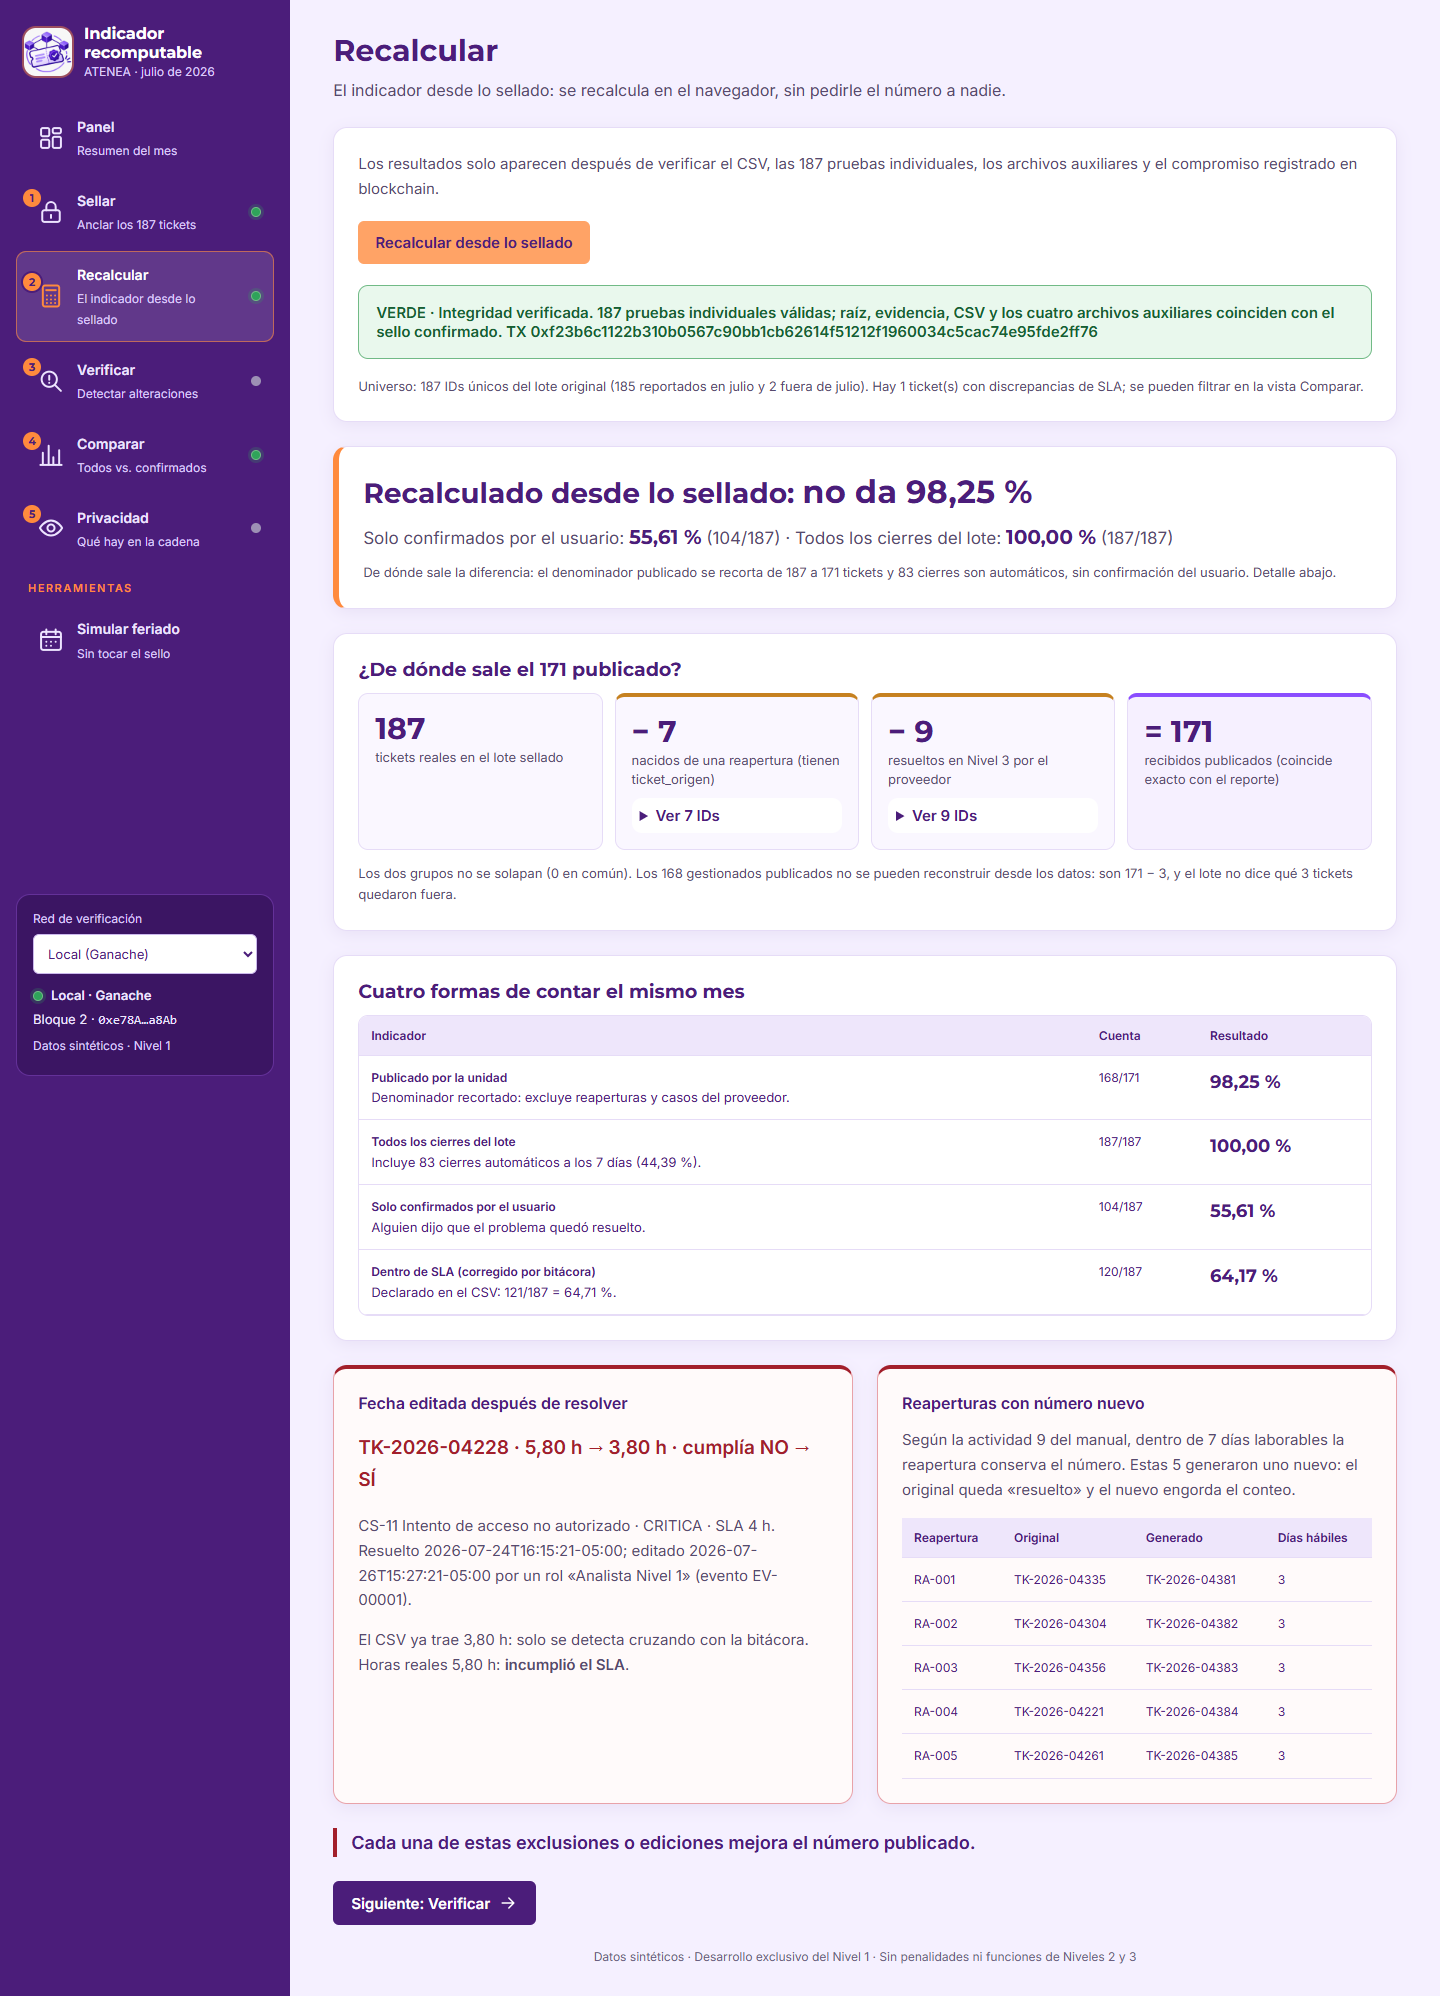
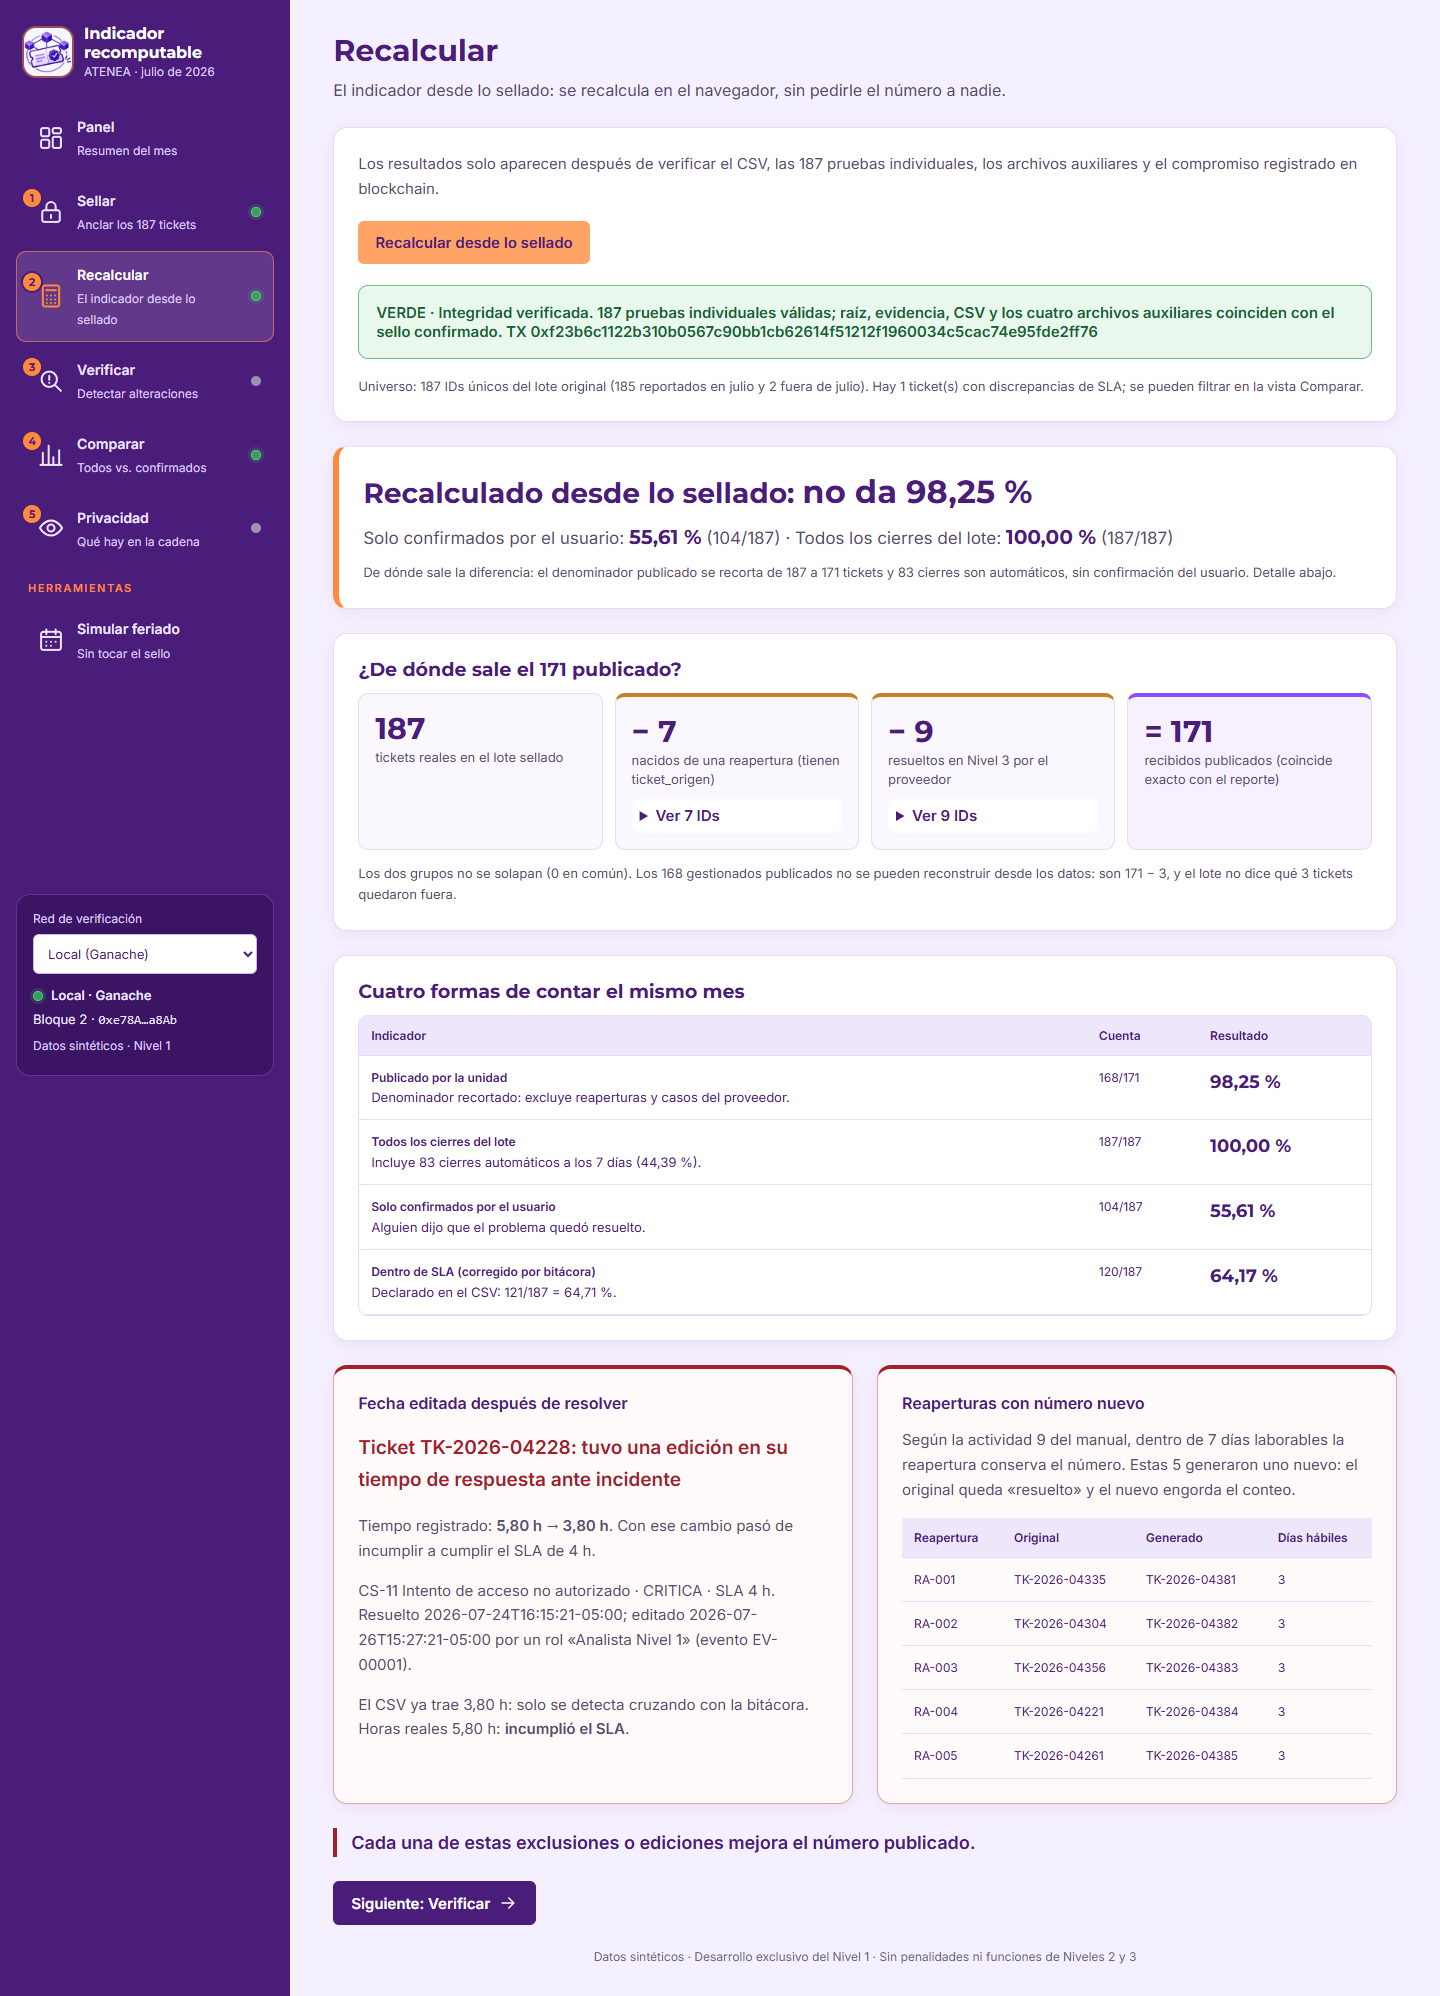
Fase 3B (ajustes): textos más claros en Recalcular, Verificar, Comparar y Privacidad
- Recalcular: la tarjeta de TK-2026-04228 dice «tuvo una edición en su tiempo de
  respuesta ante incidente»; las horas 5,80 h → 3,80 h se explican en la línea siguiente.
- Verificar: se quita la frase «Para la demostración, abre una copia…».
- Comparar: «Buscar ticket» con lista desplegable de los 187 IDs (datalist);
  «Filtrar conjunto» pasa a «Mostrar» con opciones en lenguaje llano (mismos value).
- Privacidad: menos texto y sin repetir lo que guarda la cadena; la ficha de la
  transacción ya no duplica raíz, compromiso, cantidad ni hash de reglas; en red local
  se quita la frase sobre el explorador público.
- Auditoría en nivel1-v5-auditoria: 1, 2, 4 y 5 APROBADO; 3 aprobado en automático.

Changed region(s): [[0.25, 0.7144, 0.5312, 0.8697]]

diff --git a/src/index.html b/src/index.html
@@ -156,7 +156,6 @@
       <div class="inputs"><label>Importar evidencia original (respaldo del sellado)<input id="evidenceFile" type="file" accept=".json"></label><label>Importar la sal secreta del sello (sal-202607.json)<input id="saltFile" type="file" accept=".json,.txt"></label></div>
     </details>
     <button id="verify">Verificar nuevamente contra blockchain</button>
-    <p class="small">Para la demostración, abre una copia de datos/tickets.csv, cambia fecha_resolucion de un ticket, guarda y carga esa copia. El verificador nunca sella ni reemplaza la evidencia.</p>
     <div class="slot" data-slot="verification"></div>
     <div id="changes" aria-live="polite"></div>
   </div>
@@ -172,7 +171,7 @@
   <p id="gap" class="gapline">Diferencia pendiente de verificación.</p>
   <div class="card">
     <h2>Auditoría de tickets incluidos y excluidos</h2>
-    <div class="inputs"><label>Buscar ID<input id="search" type="search" placeholder="TK-2026-04201"></label><label>Filtrar conjunto<select id="filter"><option value="all">Todos</option><option value="a">Incluidos en A</option><option value="notA">Excluidos de A</option><option value="b">Incluidos en B</option><option value="notB">Excluidos de B</option><option value="sla">Con discrepancias SLA</option></select></label></div>
+    <div class="inputs"><label>Buscar ticket<input id="search" type="search" list="ticketIds" placeholder="Escribe o elige un ID, p. ej. TK-2026-04201"></label><datalist id="ticketIds"></datalist><label>Mostrar<select id="filter"><option value="all">Todos los tickets</option><option value="a">Los que cuentan en A (todos los cierres)</option><option value="notA">Los que no cuentan en A</option><option value="b">Los que cuentan en B (confirmados por el usuario)</option><option value="notB">Los que no cuentan en B (sin confirmación del usuario)</option><option value="sla">Los que tienen diferencias en el SLA</option></select></label></div>
     <p id="tableCount"></p>
     <div class="tablewrap"><table><thead><tr><th>ID / integridad</th><th>Prioridad</th><th>Reporte / resolución</th><th>Horas calculadas / SLA</th><th>Cumplimiento</th><th>Cierre / confirmación</th><th>Trazabilidad A y B</th></tr></thead><tbody id="tickets"></tbody></table></div>
     <details><summary>Reglas del cálculo y límites</summary><div id="policy" class="rules"></div><p>Un cierre automático cuenta como gestionado en A, pero no demuestra una solución confirmada. El cumplimiento de SLA se audita por separado: incumplir el plazo no elimina un cierre del indicador de gestión.</p><p>Las horas se calculan de lunes a viernes entre 08:00 y 17:00 en UTC-05:00. Las horas declaradas se comparan con una tolerancia de ±0,02 h para absorber el redondeo a dos decimales. El motor descuenta los feriados configurados en src/calendar.mjs. El caso no entrega calendario oficial: se usa el supuesto explícito de cero feriados adicionales. Cambiarlo exige una nueva instancia y un nuevo sello.</p></details>
@@ -181,11 +180,10 @@
 </section>
 
 <section id="s5" class="view" data-route="privacidad" aria-labelledby="t-privacidad" hidden>
-  <header class="viewhead"><h1 id="t-privacidad" tabindex="-1">Privacidad</h1><p>Qué hay en la cadena: solo período, raíz, compromiso, cantidad, fecha y hash de reglas.</p></header>
+  <header class="viewhead"><h1 id="t-privacidad" tabindex="-1">Privacidad</h1><p>Qué guarda la cadena y qué queda fuera de ella.</p></header>
   <div class="card">
     <h2>¿Qué almacenamos en blockchain?</h2>
-    <p>Solo período, raíz criptográfica, compromiso de la evidencia, cantidad, marca de tiempo y hash de reglas. La cadena también publica las direcciones del contrato y del emisor, el bloque y los datos propios de una transacción EVM.</p>
-    <p>Los nombres de usuarios y técnicos, las unidades, los actores de la bitácora y el contenido de los tickets permanecen fuera de la cadena. El manifiesto contiene IDs y hashes con sal secreta, se conserva localmente y permite localizar cambios; no se publica en una transacción.</p>
+    <p>Solo los datos técnicos del sello. Los nombres de usuarios y técnicos, las unidades y el contenido de los tickets quedan fuera de la cadena.</p>
     <p id="networkNote" class="small">Local: EVM de desarrollo en este equipo, sirve de respaldo sin internet. Sepolia: lectura pública sin wallet ni credenciales.</p>
     <div class="actions"><button id="inspect" class="secondary">Consultar contrato y transacción</button><button id="searchPersonal">Buscar datos personales en la cadena</button></div>
     <div id="personal" aria-live="polite"></div>

diff --git a/docs/AUDITORIA.md b/docs/AUDITORIA.md
@@ -1,6 +1,6 @@
 # Auditoría Nivel 1 — Reto 03
 
-Ejecución UTC: 2026-11-12T04:08:32.936Z → 2026-11-12T04:09:54.331Z. Zona de presentación: America/Guayaquil.
+Ejecución UTC: 2026-11-12T04:49:36.456Z → 2026-11-12T04:50:29.433Z. Zona de presentación: America/Guayaquil.
 
 Resultado: **NIVEL 1 NO DECLARADO COMPLETO**.
 
